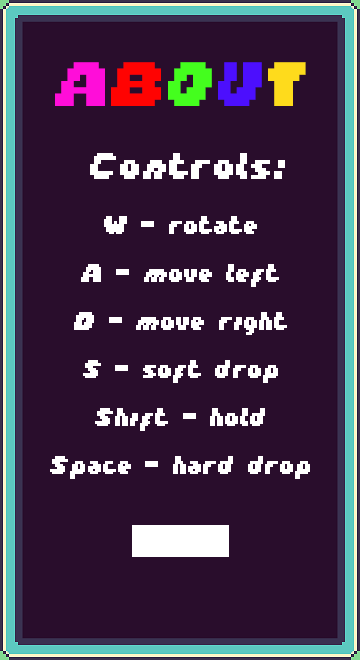
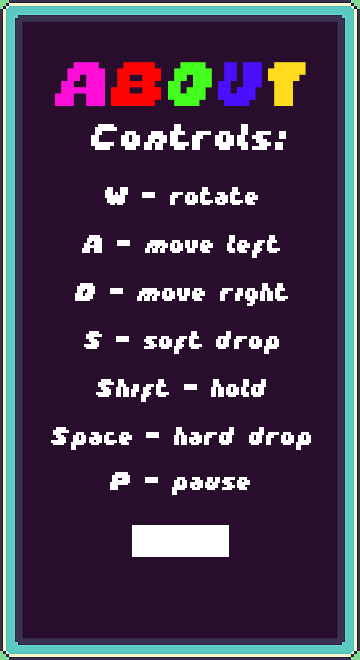
task3 graphivs

Changed region(s): [[0.1222, 0.1818, 0.8556, 0.7576]]

diff --git a/task3/src/main/java/tetris/gui/GameScreen.java b/task3/src/main/java/tetris/gui/GameScreen.java
@@ -29,6 +29,8 @@ public class GameScreen {
             setLocationRelativeTo(null);
             setResizable(false);
 
+            setIconImage(ImageLoader.loadImage("icon.png"));
+
             gameField = new GameField();
             gamePanel = new GamePanel(gameField);
             scoreHandler = new LeaderboardsHandler();
@@ -46,8 +48,8 @@ public class GameScreen {
                     }
                     int newDelay = Math.max(100, 500 - (gameField.getLevel() * 50));
                     gameTimer.setDelay(newDelay);
-                    gamePanel.repaint();
                 }
+                gamePanel.repaint();
             });
             gameTimer.start();
         }
@@ -118,6 +120,16 @@ public class GameScreen {
         @Override
         protected void paintComponent(Graphics g) {
             super.paintComponent(g);
+
+            if (gameField.getPause()) {
+                Image backdrop = ImageLoader.loadImage("backgrounds/pauseScreen.png");
+                g.drawImage(backdrop, 0, 0, this);
+                scoreLabel.setVisible(false);
+                levelLabel.setVisible(false);
+                return;
+            }
+            scoreLabel.setVisible(true);
+            levelLabel.setVisible(true);
 
             Image backdrop = ImageLoader.loadImage("backgrounds/gameScreen.png");
             g.drawImage(backdrop, 0, 0, this);

diff --git a/task3/src/main/java/tetris/gui/HighscoreScreen.java b/task3/src/main/java/tetris/gui/HighscoreScreen.java
@@ -17,6 +17,8 @@ public class HighscoreScreen {
             setDefaultCloseOperation(JFrame.EXIT_ON_CLOSE);
             setResizable(false);
 
+            setIconImage(ImageLoader.loadImage("icon.png"));
+
             HighscorePanel highscorePanel = new HighscorePanel();
             setContentPane(highscorePanel);
             pack();

diff --git a/task3/src/main/java/tetris/gui/AboutScreen.java b/task3/src/main/java/tetris/gui/AboutScreen.java
@@ -14,6 +14,8 @@ public class AboutScreen {
             setDefaultCloseOperation(JFrame.EXIT_ON_CLOSE);
             setResizable(false);
 
+            setIconImage(ImageLoader.loadImage("icon.png"));
+
             AboutPanel aboutPanel = new AboutPanel();
             setContentPane(aboutPanel);
             pack();

diff --git a/task3/src/main/java/tetris/gui/MenuScreen.java b/task3/src/main/java/tetris/gui/MenuScreen.java
@@ -15,6 +15,8 @@ public class MenuScreen {
             setDefaultCloseOperation(JFrame.EXIT_ON_CLOSE);
             setResizable(false);
 
+            setIconImage(ImageLoader.loadImage("icon.png"));
+
             MenuPanel menuPanel = new MenuPanel();
             setContentPane(menuPanel);
             pack();
